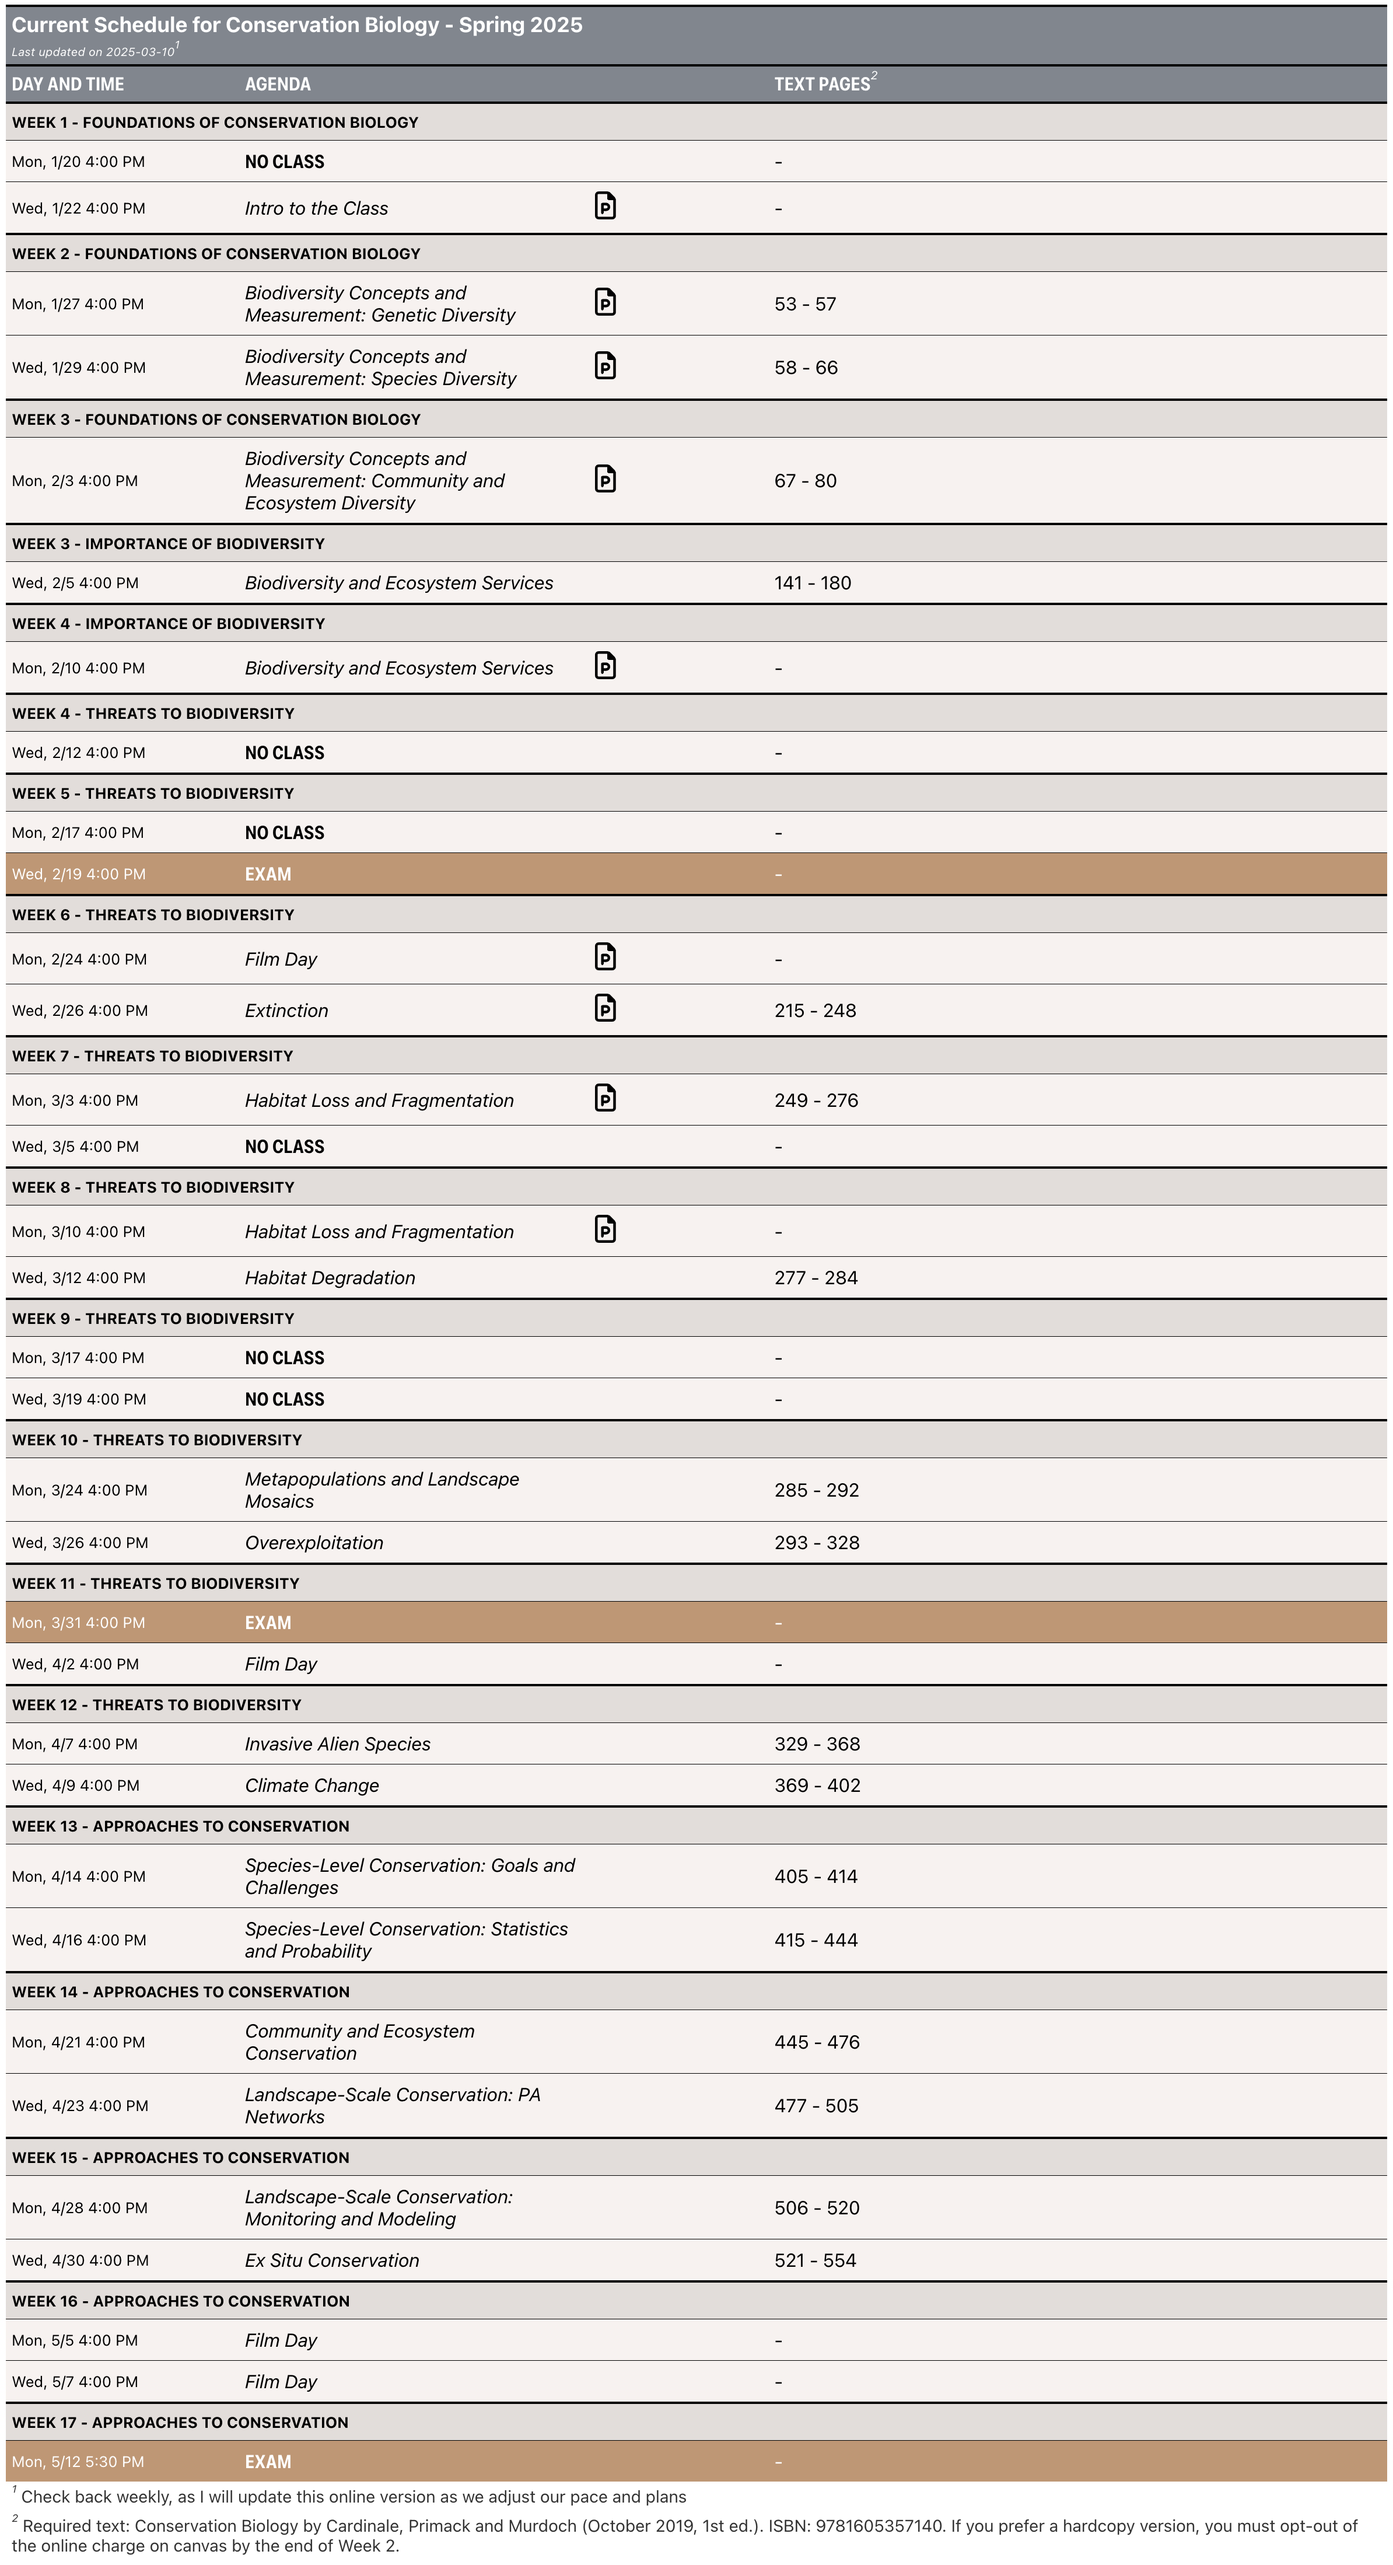
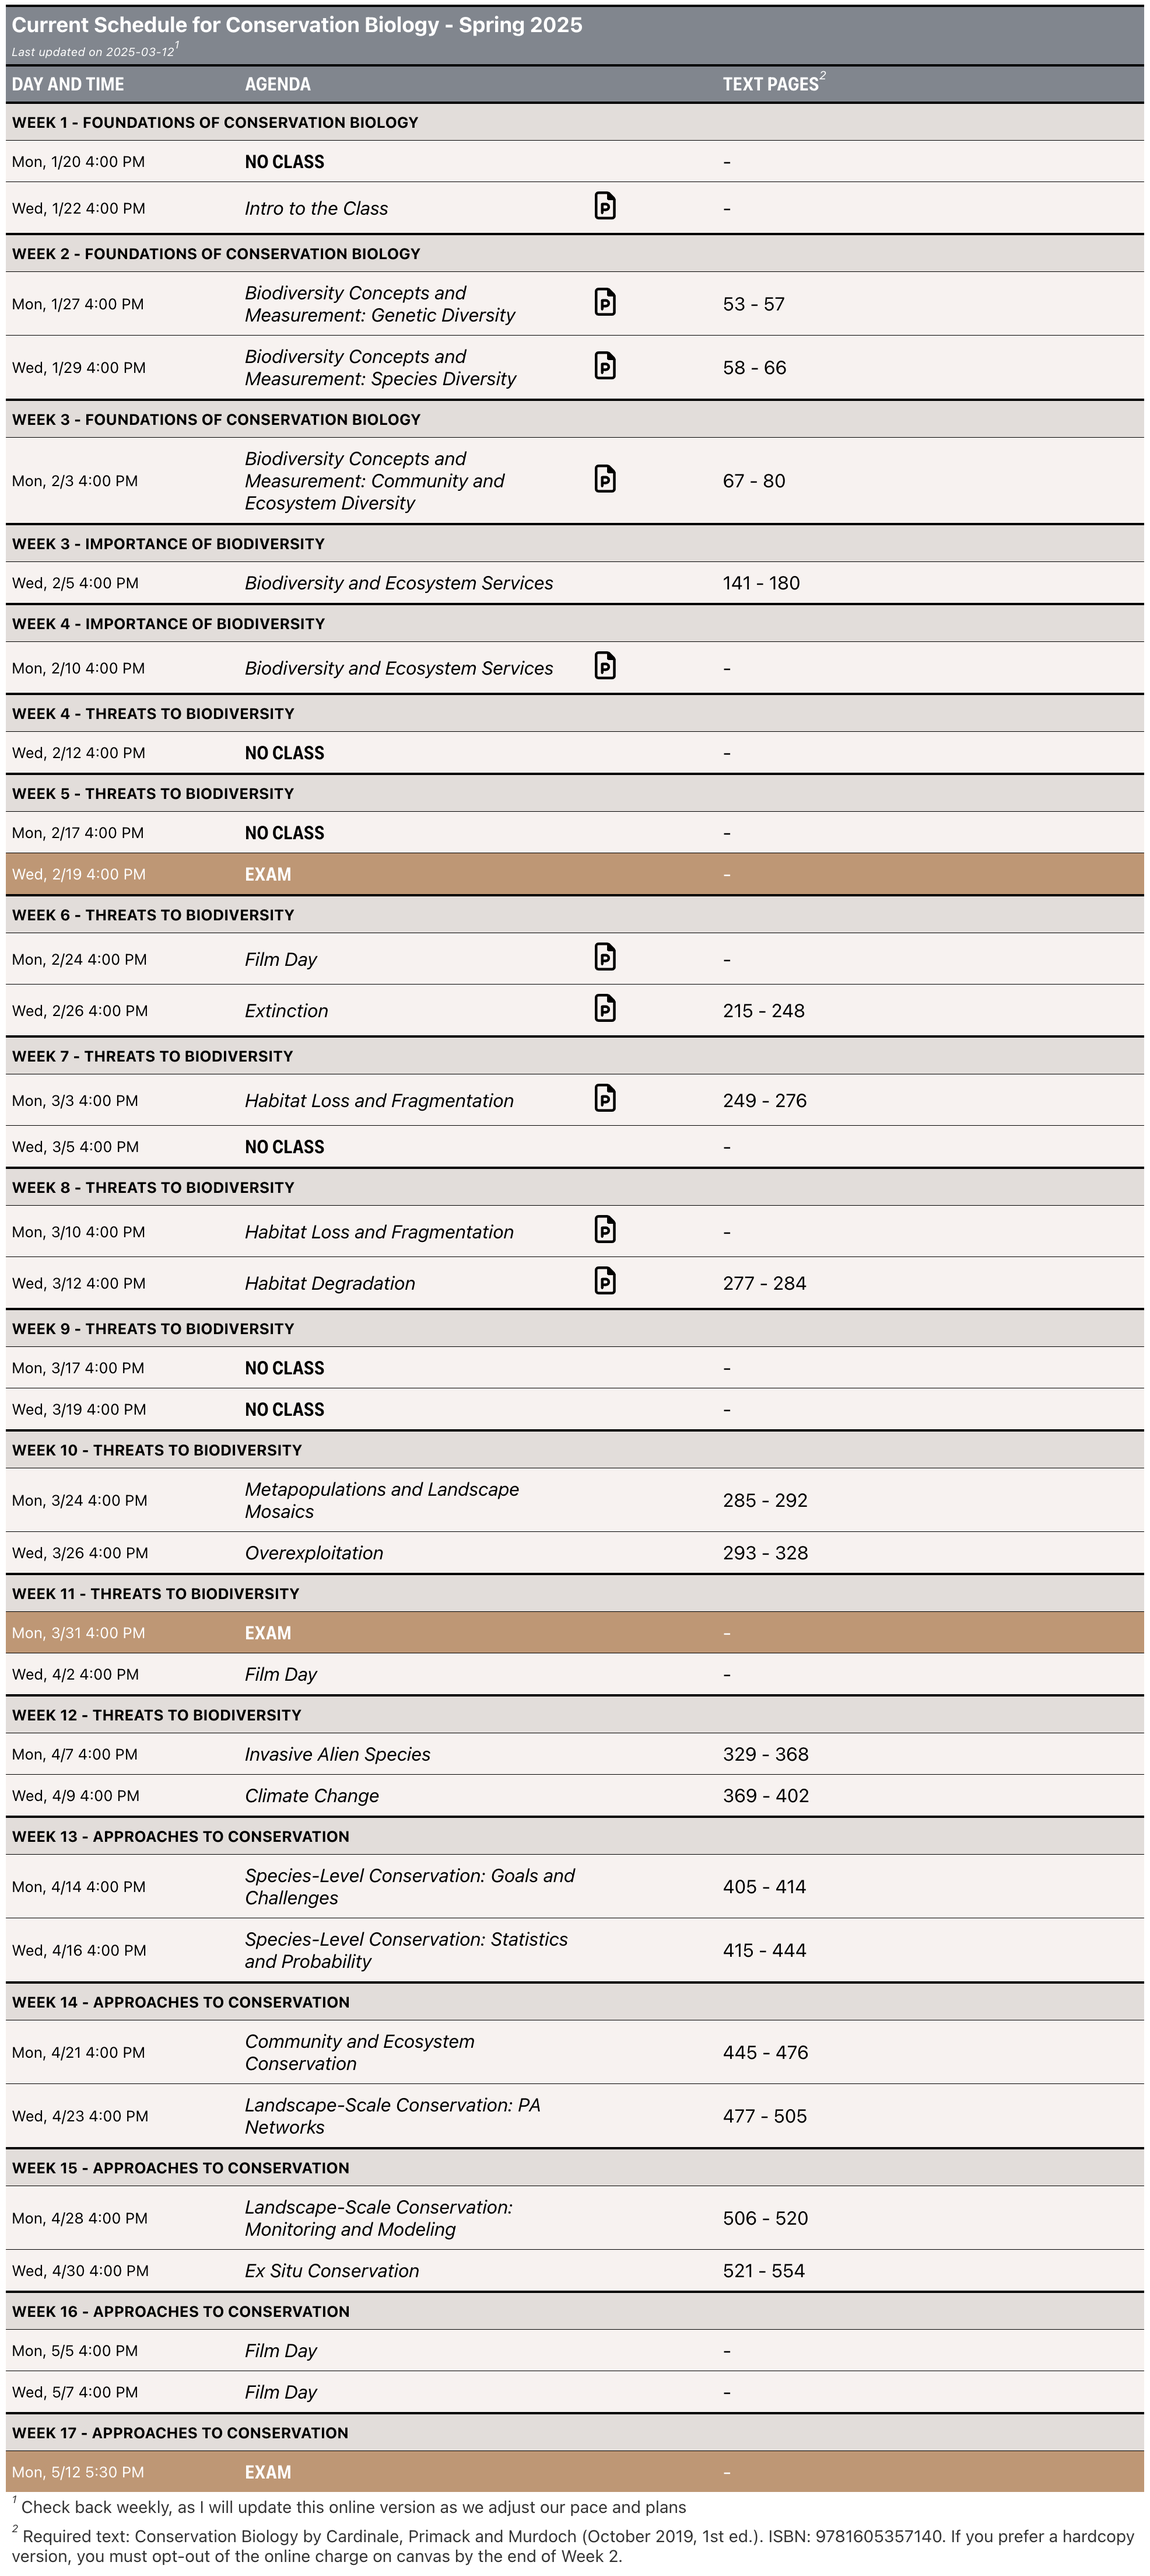
conbio slide link

diff --git a/schedules/Schedule_ConBio.html b/schedules/Schedule_ConBio.html
@@ -7,23 +7,23 @@
 
 </head>
 <body>
-<div id="dkthpsgswx" style="padding-left:0px;padding-right:0px;padding-top:10px;padding-bottom:10px;overflow-x:auto;overflow-y:auto;width:auto;height:auto;">
-  <style>#dkthpsgswx table {
+<div id="ioujxpkvkl" style="padding-left:0px;padding-right:0px;padding-top:10px;padding-bottom:10px;overflow-x:auto;overflow-y:auto;width:auto;height:auto;">
+  <style>#ioujxpkvkl table {
   font-family: system-ui, 'Segoe UI', Roboto, Helvetica, Arial, sans-serif, 'Apple Color Emoji', 'Segoe UI Emoji', 'Segoe UI Symbol', 'Noto Color Emoji';
   -webkit-font-smoothing: antialiased;
   -moz-osx-font-smoothing: grayscale;
 }
 
-#dkthpsgswx thead, #dkthpsgswx tbody, #dkthpsgswx tfoot, #dkthpsgswx tr, #dkthpsgswx td, #dkthpsgswx th {
+#ioujxpkvkl thead, #ioujxpkvkl tbody, #ioujxpkvkl tfoot, #ioujxpkvkl tr, #ioujxpkvkl td, #ioujxpkvkl th {
   border-style: none;
 }
 
-#dkthpsgswx p {
+#ioujxpkvkl p {
   margin: 0;
   padding: 0;
 }
 
-#dkthpsgswx .gt_table {
+#ioujxpkvkl .gt_table {
   display: table;
   border-collapse: collapse;
   line-height: normal;
@@ -49,12 +49,12 @@
   border-left-color: #D3D3D3;
 }
 
-#dkthpsgswx .gt_caption {
+#ioujxpkvkl .gt_caption {
   padding-top: 4px;
   padding-bottom: 4px;
 }
 
-#dkthpsgswx .gt_title {
+#ioujxpkvkl .gt_title {
   color: #333333;
   font-size: 125%;
   font-weight: initial;
@@ -66,7 +66,7 @@
   border-bottom-width: 0;
 }
 
-#dkthpsgswx .gt_subtitle {
+#ioujxpkvkl .gt_subtitle {
   color: #333333;
   font-size: 85%;
   font-weight: initial;
@@ -78,7 +78,7 @@
   border-top-width: 0;
 }
 
-#dkthpsgswx .gt_heading {
+#ioujxpkvkl .gt_heading {
   background-color: #FFFFFF;
   text-align: center;
   border-bottom-color: #FFFFFF;
@@ -90,13 +90,13 @@
   border-right-color: #D3D3D3;
 }
 
-#dkthpsgswx .gt_bottom_border {
+#ioujxpkvkl .gt_bottom_border {
   border-bottom-style: none;
   border-bottom-width: 2px;
   border-bottom-color: #D3D3D3;
 }
 
-#dkthpsgswx .gt_col_headings {
+#ioujxpkvkl .gt_col_headings {
   border-top-style: none;
   border-top-width: 2px;
   border-top-color: #D3D3D3;
@@ -111,7 +111,7 @@
   border-right-color: #D3D3D3;
 }
 
-#dkthpsgswx .gt_col_heading {
+#ioujxpkvkl .gt_col_heading {
   color: #333333;
   background-color: #FFFFFF;
   font-size: 100%;
@@ -131,7 +131,7 @@
   overflow-x: hidden;
 }
 
-#dkthpsgswx .gt_column_spanner_outer {
+#ioujxpkvkl .gt_column_spanner_outer {
   color: #333333;
   background-color: #FFFFFF;
   font-size: 100%;
@@ -143,15 +143,15 @@
   padding-right: 4px;
 }
 
-#dkthpsgswx .gt_column_spanner_outer:first-child {
+#ioujxpkvkl .gt_column_spanner_outer:first-child {
   padding-left: 0;
 }
 
-#dkthpsgswx .gt_column_spanner_outer:last-child {
+#ioujxpkvkl .gt_column_spanner_outer:last-child {
   padding-right: 0;
 }
 
-#dkthpsgswx .gt_column_spanner {
+#ioujxpkvkl .gt_column_spanner {
   border-bottom-style: none;
   border-bottom-width: 2px;
   border-bottom-color: #D3D3D3;
@@ -163,11 +163,11 @@
   width: 100%;
 }
 
-#dkthpsgswx .gt_spanner_row {
+#ioujxpkvkl .gt_spanner_row {
   border-bottom-style: hidden;
 }
 
-#dkthpsgswx .gt_group_heading {
+#ioujxpkvkl .gt_group_heading {
   padding-top: 8px;
   padding-bottom: 8px;
   padding-left: 5px;
@@ -193,7 +193,7 @@
   text-align: left;
 }
 
-#dkthpsgswx .gt_empty_group_heading {
+#ioujxpkvkl .gt_empty_group_heading {
   padding: 0.5px;
   color: #333333;
   background-color: #FFFFFF;
@@ -208,15 +208,15 @@
   vertical-align: middle;
 }
 
-#dkthpsgswx .gt_from_md > :first-child {
+#ioujxpkvkl .gt_from_md > :first-child {
   margin-top: 0;
 }
 
-#dkthpsgswx .gt_from_md > :last-child {
+#ioujxpkvkl .gt_from_md > :last-child {
   margin-bottom: 0;
 }
 
-#dkthpsgswx .gt_row {
+#ioujxpkvkl .gt_row {
   padding-top: 8px;
   padding-bottom: 8px;
   padding-left: 5px;
@@ -235,7 +235,7 @@
   overflow-x: hidden;
 }
 
-#dkthpsgswx .gt_stub {
+#ioujxpkvkl .gt_stub {
   color: #333333;
   background-color: #FFFFFF;
   font-size: 100%;
@@ -248,7 +248,7 @@
   padding-right: 5px;
 }
 
-#dkthpsgswx .gt_stub_row_group {
+#ioujxpkvkl .gt_stub_row_group {
   color: #333333;
   background-color: #FFFFFF;
   font-size: 100%;
@@ -262,15 +262,15 @@
   vertical-align: top;
 }
 
-#dkthpsgswx .gt_row_group_first td {
+#ioujxpkvkl .gt_row_group_first td {
   border-top-width: 2px;
 }
 
-#dkthpsgswx .gt_row_group_first th {
+#ioujxpkvkl .gt_row_group_first th {
   border-top-width: 2px;
 }
 
-#dkthpsgswx .gt_summary_row {
+#ioujxpkvkl .gt_summary_row {
   color: #333333;
   background-color: #FFFFFF;
   text-transform: inherit;
@@ -280,16 +280,16 @@
   padding-right: 5px;
 }
 
-#dkthpsgswx .gt_first_summary_row {
+#ioujxpkvkl .gt_first_summary_row {
   border-top-style: none;
   border-top-color: #D3D3D3;
 }
 
-#dkthpsgswx .gt_first_summary_row.thick {
+#ioujxpkvkl .gt_first_summary_row.thick {
   border-top-width: 2px;
 }
 
-#dkthpsgswx .gt_last_summary_row {
+#ioujxpkvkl .gt_last_summary_row {
   padding-top: 8px;
   padding-bottom: 8px;
   padding-left: 5px;
@@ -299,7 +299,7 @@
   border-bottom-color: #D3D3D3;
 }
 
-#dkthpsgswx .gt_grand_summary_row {
+#ioujxpkvkl .gt_grand_summary_row {
   color: #333333;
   background-color: #FFFFFF;
   text-transform: inherit;
@@ -309,7 +309,7 @@
   padding-right: 5px;
 }
 
-#dkthpsgswx .gt_first_grand_summary_row {
+#ioujxpkvkl .gt_first_grand_summary_row {
   padding-top: 8px;
   padding-bottom: 8px;
   padding-left: 5px;
@@ -319,7 +319,7 @@
   border-top-color: #D3D3D3;
 }
 
-#dkthpsgswx .gt_last_grand_summary_row_top {
+#ioujxpkvkl .gt_last_grand_summary_row_top {
   padding-top: 8px;
   padding-bottom: 8px;
   padding-left: 5px;
@@ -329,11 +329,11 @@
   border-bottom-color: #D3D3D3;
 }
 
-#dkthpsgswx .gt_striped {
+#ioujxpkvkl .gt_striped {
   background-color: rgba(128, 128, 128, 0.05);
 }
 
-#dkthpsgswx .gt_table_body {
+#ioujxpkvkl .gt_table_body {
   border-top-style: none;
   border-top-width: 2px;
   border-top-color: #D3D3D3;
@@ -342,7 +342,7 @@
   border-bottom-color: #D3D3D3;
 }
 
-#dkthpsgswx .gt_footnotes {
+#ioujxpkvkl .gt_footnotes {
   color: #333333;
   background-color: #FFFFFF;
   border-bottom-style: none;
@@ -356,7 +356,7 @@
   border-right-color: #D3D3D3;
 }
 
-#dkthpsgswx .gt_footnote {
+#ioujxpkvkl .gt_footnote {
   margin: 0px;
   font-size: 90%;
   padding-top: 4px;
@@ -365,7 +365,7 @@
   padding-right: 5px;
 }
 
-#dkthpsgswx .gt_sourcenotes {
+#ioujxpkvkl .gt_sourcenotes {
   color: #333333;
   background-color: #FFFFFF;
   border-bottom-style: none;
@@ -379,7 +379,7 @@
   border-right-color: #D3D3D3;
 }
 
-#dkthpsgswx .gt_sourcenote {
+#ioujxpkvkl .gt_sourcenote {
   font-size: 90%;
   padding-top: 4px;
   padding-bottom: 4px;
@@ -387,72 +387,72 @@
   padding-right: 5px;
 }
 
-#dkthpsgswx .gt_left {
+#ioujxpkvkl .gt_left {
   text-align: left;
 }
 
-#dkthpsgswx .gt_center {
+#ioujxpkvkl .gt_center {
   text-align: center;
 }
 
-#dkthpsgswx .gt_right {
+#ioujxpkvkl .gt_right {
   text-align: right;
   font-variant-numeric: tabular-nums;
 }
 
-#dkthpsgswx .gt_font_normal {
+#ioujxpkvkl .gt_font_normal {
   font-weight: normal;
 }
 
-#dkthpsgswx .gt_font_bold {
+#ioujxpkvkl .gt_font_bold {
   font-weight: bold;
 }
 
-#dkthpsgswx .gt_font_italic {
+#ioujxpkvkl .gt_font_italic {
   font-style: italic;
 }
 
-#dkthpsgswx .gt_super {
+#ioujxpkvkl .gt_super {
   font-size: 65%;
 }
 
-#dkthpsgswx .gt_footnote_marks {
+#ioujxpkvkl .gt_footnote_marks {
   font-size: 75%;
   vertical-align: 0.4em;
   position: initial;
 }
 
-#dkthpsgswx .gt_asterisk {
+#ioujxpkvkl .gt_asterisk {
   font-size: 100%;
   vertical-align: 0;
 }
 
-#dkthpsgswx .gt_indent_1 {
+#ioujxpkvkl .gt_indent_1 {
   text-indent: 5px;
 }
 
-#dkthpsgswx .gt_indent_2 {
+#ioujxpkvkl .gt_indent_2 {
   text-indent: 10px;
 }
 
-#dkthpsgswx .gt_indent_3 {
+#ioujxpkvkl .gt_indent_3 {
   text-indent: 15px;
 }
 
-#dkthpsgswx .gt_indent_4 {
+#ioujxpkvkl .gt_indent_4 {
   text-indent: 20px;
 }
 
-#dkthpsgswx .gt_indent_5 {
+#ioujxpkvkl .gt_indent_5 {
   text-indent: 25px;
 }
 
-#dkthpsgswx .katex-display {
+#ioujxpkvkl .katex-display {
   display: inline-flex !important;
   margin-bottom: 0.75em !important;
 }
 
-#dkthpsgswx div.Reactable > div.rt-table > div.rt-thead > div.rt-tr.rt-tr-group-header > div.rt-th-group:after {
+#ioujxpkvkl div.Reactable > div.rt-table > div.rt-thead > div.rt-tr.rt-tr-group-header > div.rt-th-group:after {
   height: 0px !important;
 }
 </style>
@@ -468,7 +468,7 @@
       <td colspan="4" class="gt_heading gt_title gt_font_normal" style="color: #FFFFFF; font-size: large; text-align: left; font-weight: bold; background-color: rgba(76,82,94,0.7); border-top-width: 2px; border-top-style: solid; border-top-color: #000000;">Current Schedule for Conservation Biology - Spring 2025</td>
     </tr>
     <tr class="gt_heading">
-      <td colspan="4" class="gt_heading gt_subtitle gt_font_normal gt_bottom_border" style="color: #FFFFFF; font-size: x-small; text-align: left; font-style: oblique; background-color: rgba(76,82,94,0.7); border-top-width: 1px; border-top-style: hidden; border-top-color: #000000;">Last updated on 2025-03-10<span class="gt_footnote_marks" style="white-space:nowrap;font-style:italic;font-weight:normal;line-height:0;"><sup>1</sup></span></td>
+      <td colspan="4" class="gt_heading gt_subtitle gt_font_normal gt_bottom_border" style="color: #FFFFFF; font-size: x-small; text-align: left; font-style: oblique; background-color: rgba(76,82,94,0.7); border-top-width: 1px; border-top-style: hidden; border-top-color: #000000;">Last updated on 2025-03-12<span class="gt_footnote_marks" style="white-space:nowrap;font-style:italic;font-weight:normal;line-height:0;"><sup>1</sup></span></td>
     </tr>
     <tr class="gt_col_headings">
       <th class="gt_col_heading gt_columns_bottom_border gt_left" rowspan="1" colspan="1" style="color: #FFFFFF; text-align: left; font-weight: bold; font-stretch: condensed; text-transform: uppercase; background-color: rgba(76,82,94,0.7); border-top-width: 2px; border-top-style: solid; border-top-color: #000000;" scope="col" id="Start">Day and Time</th>
@@ -570,7 +570,7 @@
 <td headers="Week 8 - Threats to Biodiversity  key" class="gt_row gt_left" style="color: #000000; background-color: rgba(216,192,182,0.2); border-top-width: 0.5px; border-top-style: solid; border-top-color: #000000;">-</td></tr>
     <tr><td headers="Week 8 - Threats to Biodiversity  Start" class="gt_row gt_left" style="font-size: small; color: #000000; background-color: rgba(216,192,182,0.2); border-top-width: 0.5px; border-top-style: solid; border-top-color: #000000;">Wed, 3/12 4:00 PM</td>
 <td headers="Week 8 - Threats to Biodiversity  Agenda" class="gt_row gt_left" style="font-style: italic; color: #000000; background-color: rgba(216,192,182,0.2); border-top-width: 0.5px; border-top-style: solid; border-top-color: #000000;">Habitat Degradation</td>
-<td headers="Week 8 - Threats to Biodiversity  Slides" class="gt_row gt_left" style="color: #000000; background-color: rgba(216,192,182,0.2); border-top-width: 0.5px; border-top-style: solid; border-top-color: #000000;"><br /></td>
+<td headers="Week 8 - Threats to Biodiversity  Slides" class="gt_row gt_left" style="color: #000000; background-color: rgba(216,192,182,0.2); border-top-width: 0.5px; border-top-style: solid; border-top-color: #000000;"><span style="white-space: pre;"><a href="https://www.canva.com/design/DAGhjIxyQoc/_2E7nhKsnEgtYuhfBHsu4w/view?utm_content=DAGhjIxyQoc&utm_campaign=designshare&utm_medium=link2&utm_source=uniquelinks&utlId=h0c288c0575" target="_blank" style="color:#000000;text-decoration:underline;text-underline-position: under;display: inline-block;"><svg aria-hidden="true" role="img" viewBox="0 0 384 512" style="height:1.5em;width:1.12em;vertical-align:0em;margin-left:auto;margin-right:auto;font-size:inherit;fill:currentColor;overflow:visible;position:relative;"><path d="M64 464c-8.8 0-16-7.2-16-16V64c0-8.8 7.2-16 16-16H224v80c0 17.7 14.3 32 32 32h80V448c0 8.8-7.2 16-16 16H64zM64 0C28.7 0 0 28.7 0 64V448c0 35.3 28.7 64 64 64H320c35.3 0 64-28.7 64-64V154.5c0-17-6.7-33.3-18.7-45.3L274.7 18.7C262.7 6.7 246.5 0 229.5 0H64zm72 208c-13.3 0-24 10.7-24 24V336v56c0 13.3 10.7 24 24 24s24-10.7 24-24V360h44c42 0 76-34 76-76s-34-76-76-76H136zm68 104H160V256h44c15.5 0 28 12.5 28 28s-12.5 28-28 28z"/></svg></a></span></td>
 <td headers="Week 8 - Threats to Biodiversity  key" class="gt_row gt_left" style="color: #000000; background-color: rgba(216,192,182,0.2); border-top-width: 0.5px; border-top-style: solid; border-top-color: #000000;">277 - 284</td></tr>
     <tr class="gt_group_heading_row">
       <th colspan="4" class="gt_group_heading" style="color: #000000; font-size: small; font-weight: bold; text-transform: uppercase; background-color: rgba(213,207,202,0.7); border-top-width: 2px; border-top-style: solid; border-top-color: #000000;" scope="colgroup" id="Week 9 - Threats to Biodiversity">Week 9 - Threats to Biodiversity</th>
